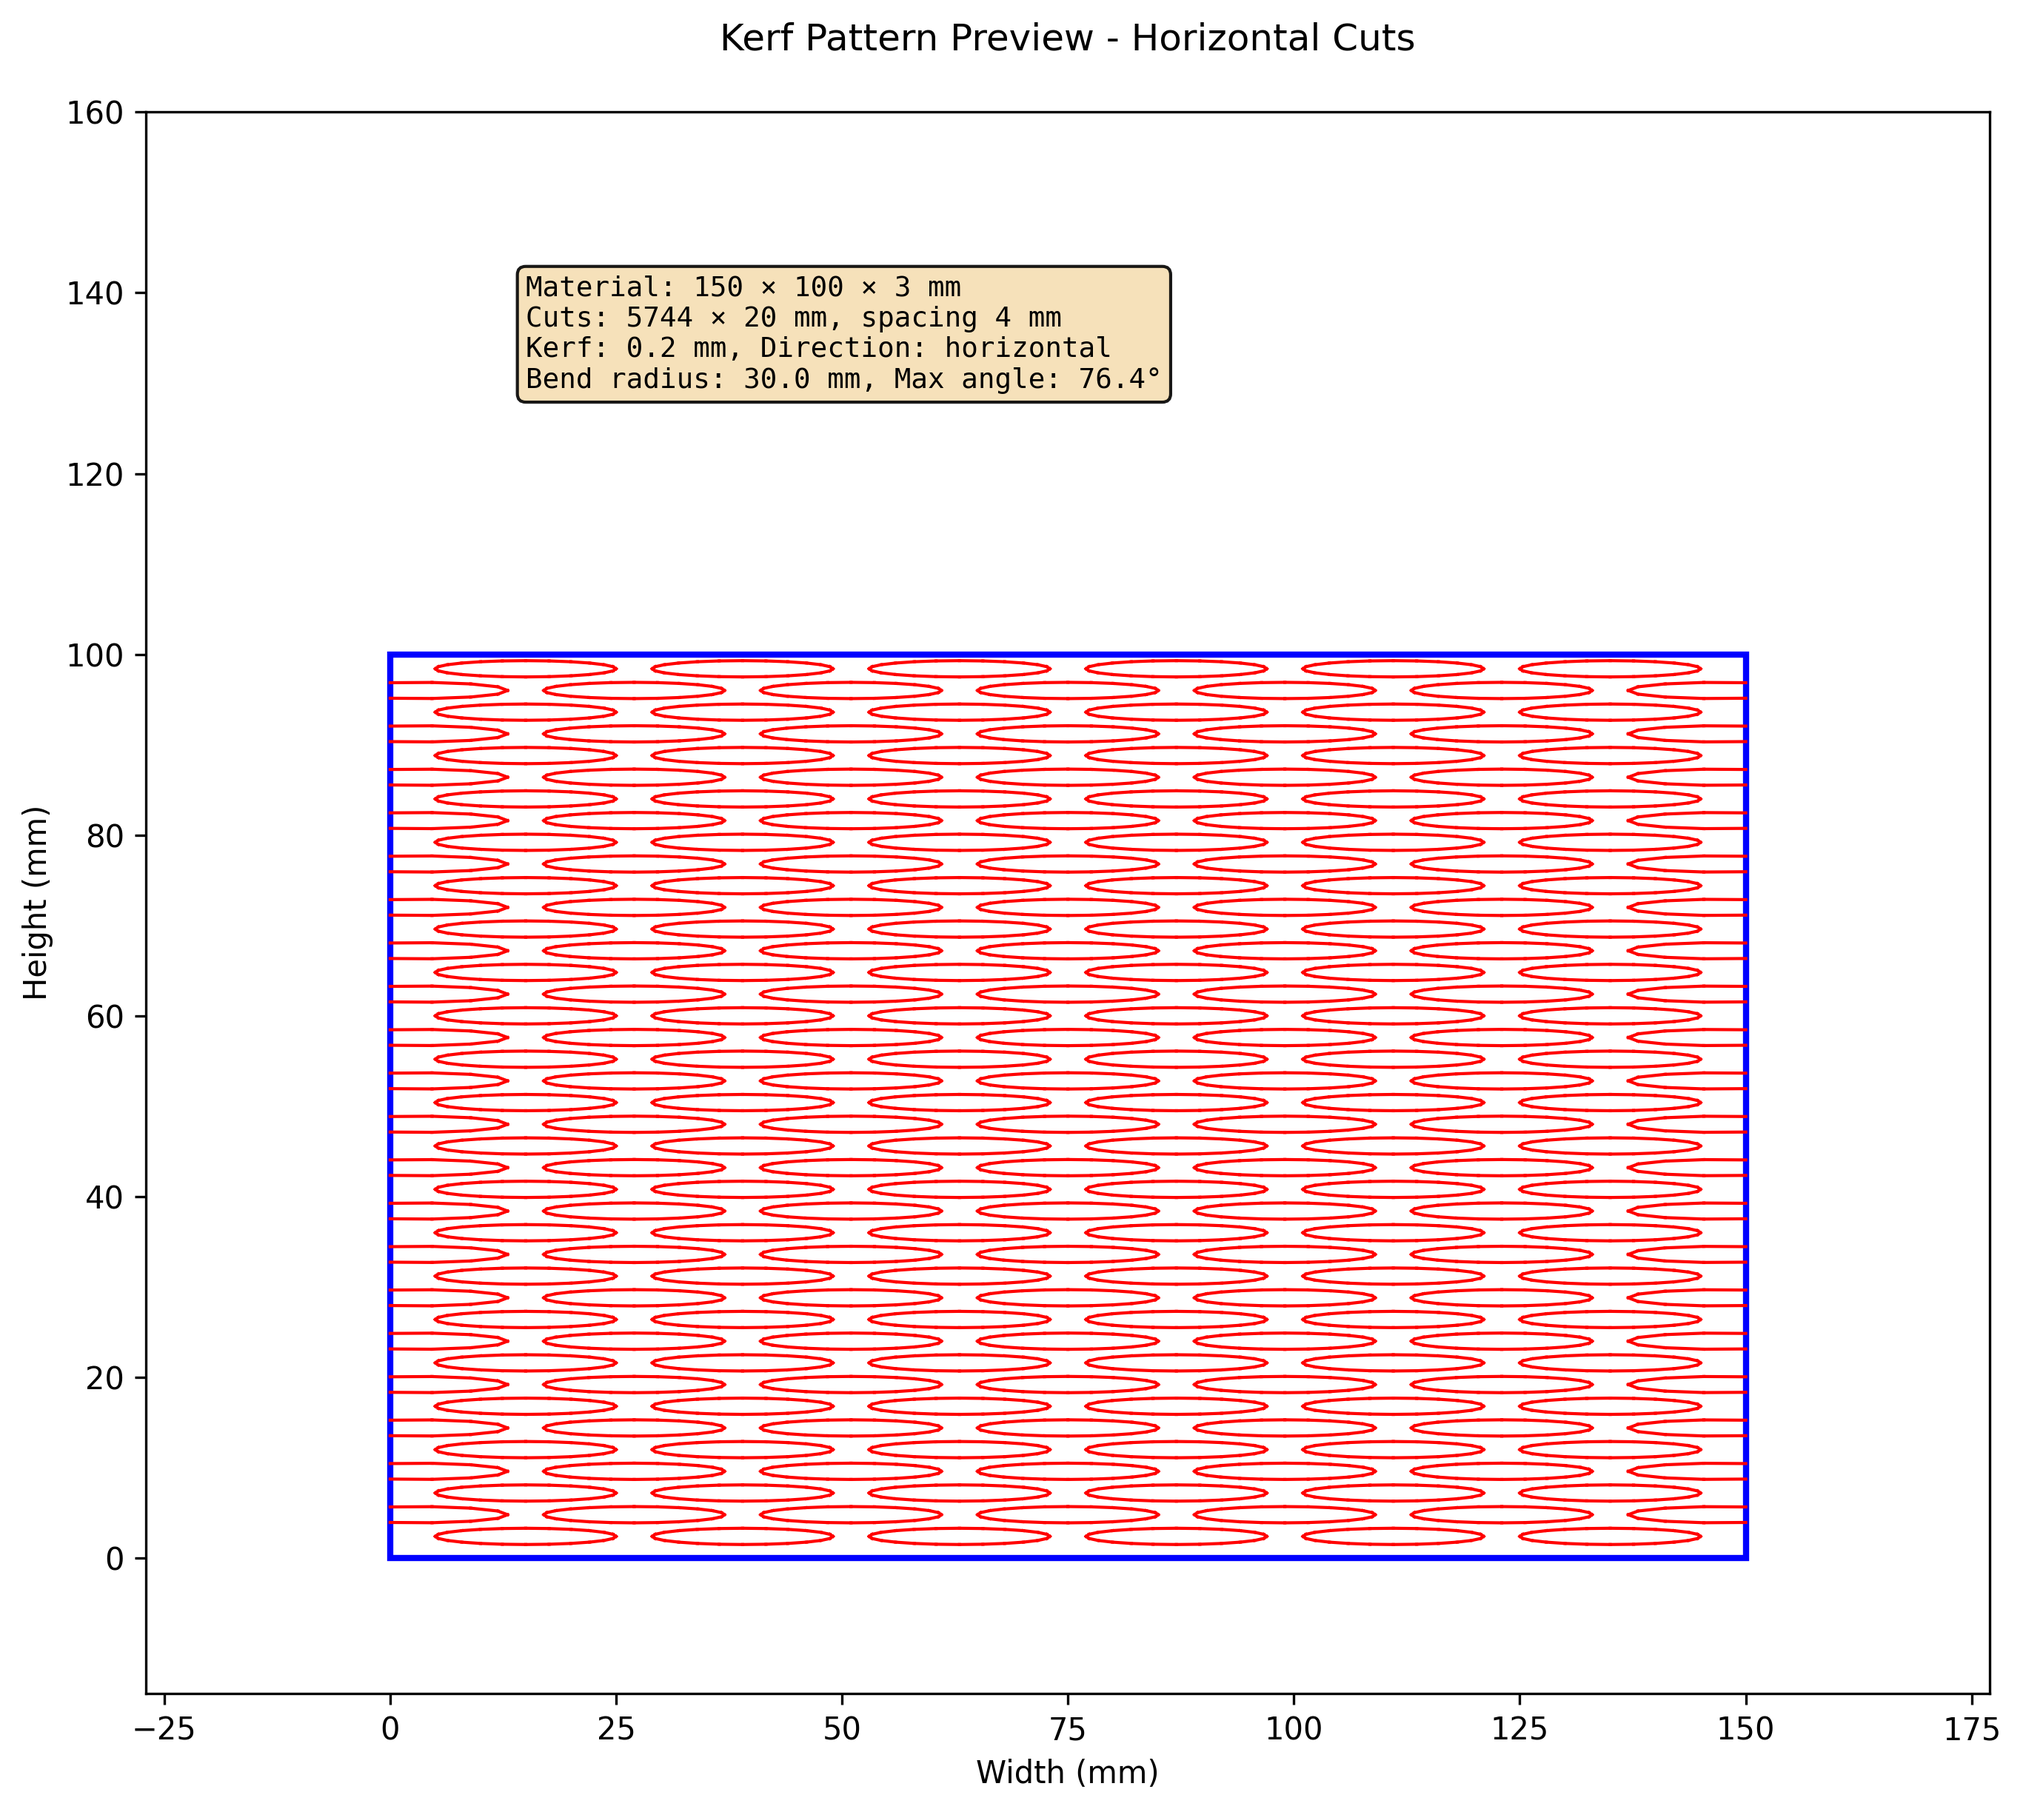
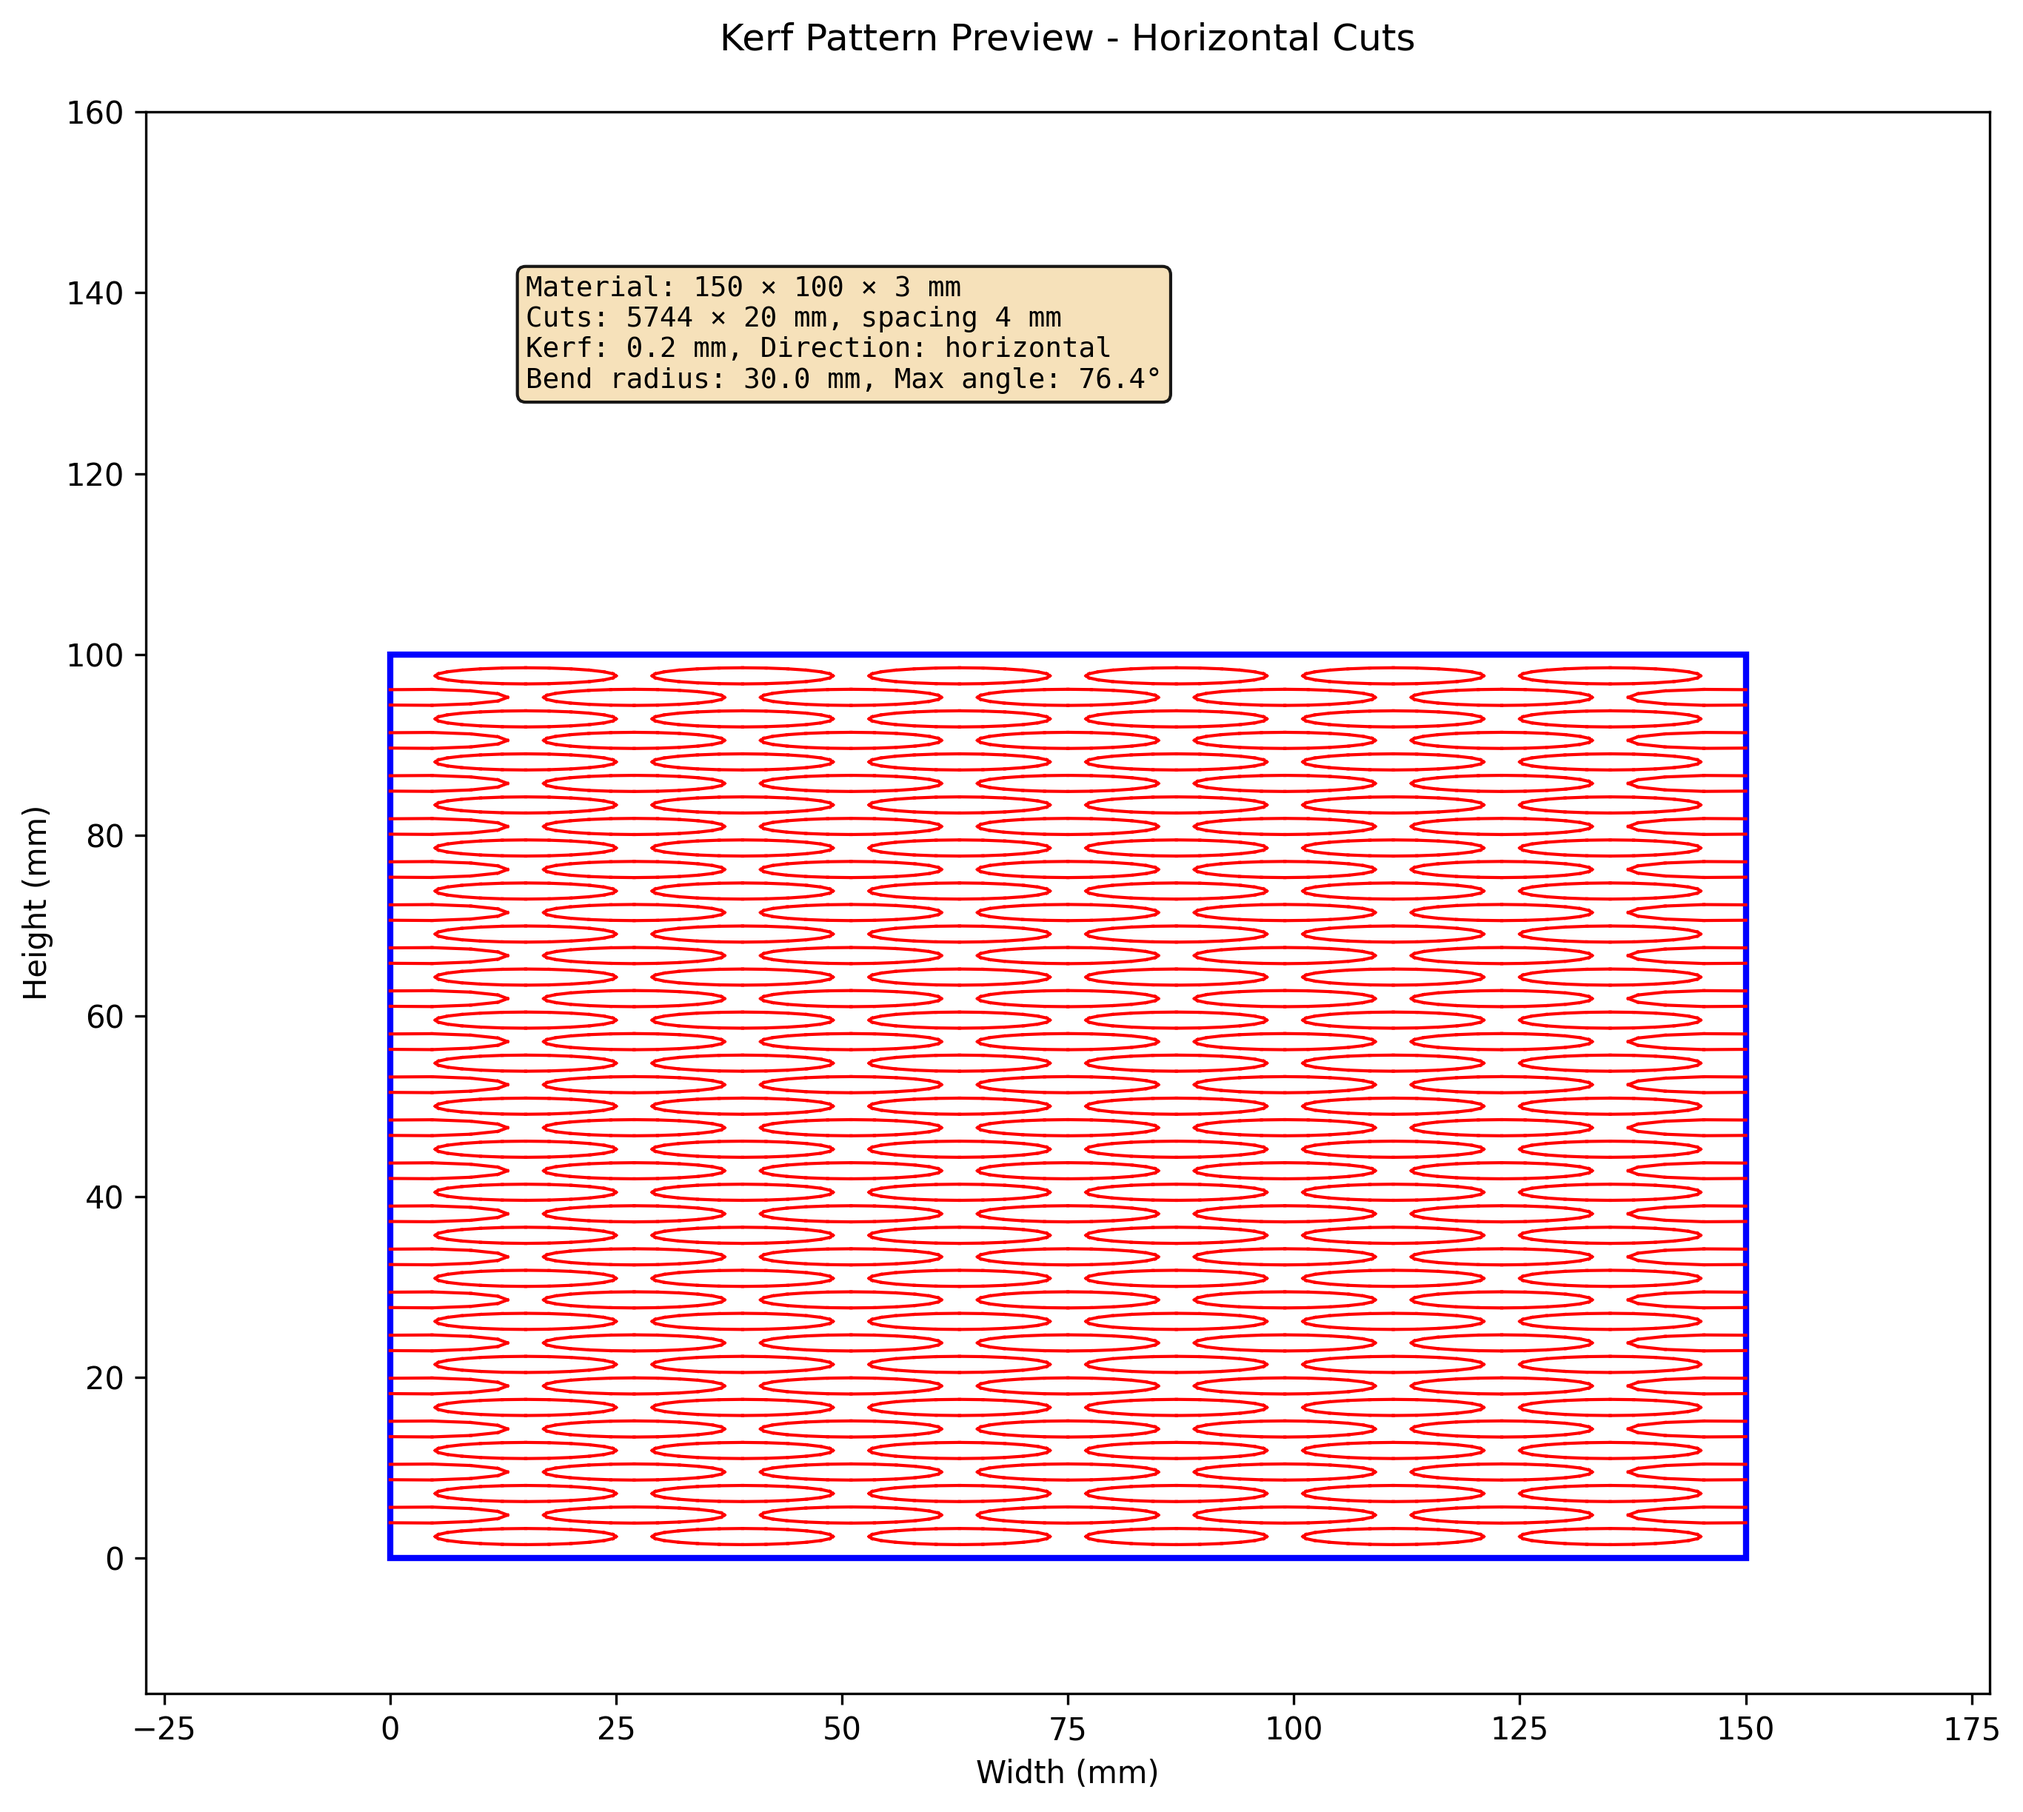
fix: distribute oval rows evenly so top/bottom margins are symmetric
Applies the same num_rows = round(H / row_spacing); row_spacing = H /
num_rows even-distribution logic to _generate_oval_pattern that was
already used in _generate_diamond_pattern, ensuring both pattern types
apply all layout constraints (centered grid, even row distribution,
left/right half-shapes, top/bottom standoff) identically.

Changed region(s): [[0.1867, 0.3416, 0.8712, 0.8386]]

diff --git a/src/kerf_generator/patterns.py b/src/kerf_generator/patterns.py
@@ -359,6 +359,12 @@ def _generate_oval_pattern(params: KerfParameters) -> List[LineSegment]:
     if period <= 0 or W <= 0 or H <= 0:
         return lines
 
+    # Distribute rows evenly across H (same as diamond) so top/bottom margins are equal.
+    num_rows = max(1, round(H / row_spacing))
+    row_spacing = H / num_rows
+
+    lens_height = row_spacing * 0.75  # recompute with adjusted spacing
+
     # Center the grid so both edge clips are symmetric.
     offset = (W % period) / 2
 
